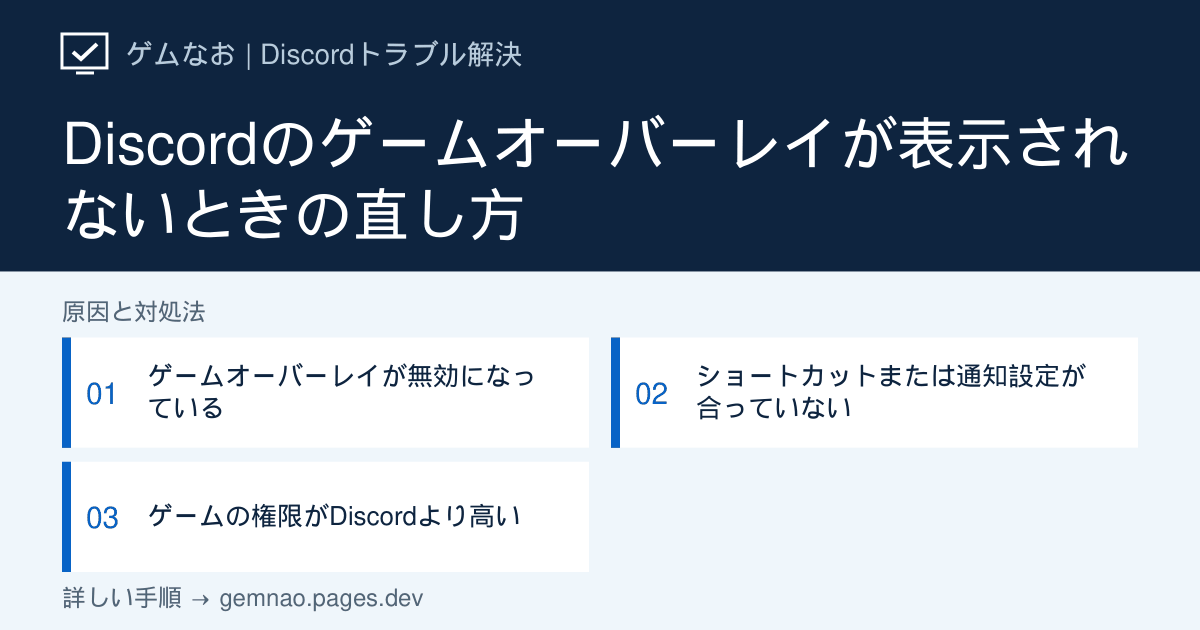
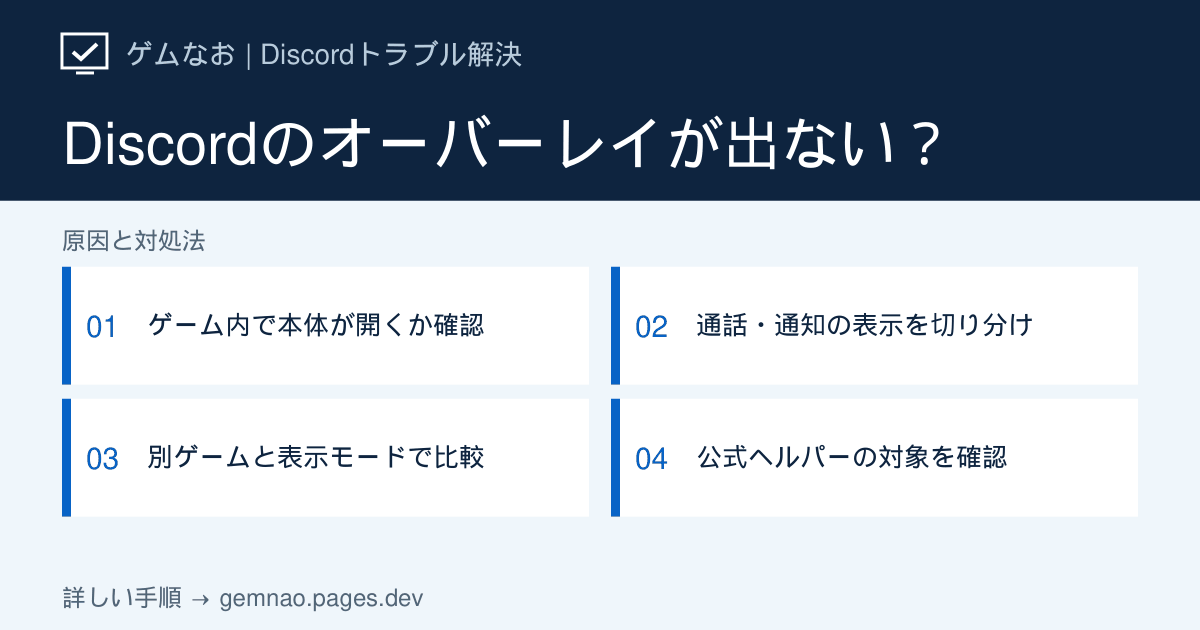
Improve Discord overlay troubleshooting with symptom-based checks

diff --git a/lib/discord-p0-articles.ts b/lib/discord-p0-articles.ts
@@ -644,79 +644,104 @@ export const discordP0Articles: DiscordArticle[] = [
   {
     slug: 'overlay-not-showing',
     category: 'game',
-    title: 'Discordのゲームオーバーレイが表示されないときの直し方',
+    title: 'Discordのオーバーレイが表示されない｜本体・通話・通知別の直し方',
     shortTitle: 'ゲームオーバーレイが表示されない',
-    seoTitle: 'Discordのオーバーレイが表示されないときの対処法【PC】',
+    seoTitle: 'Discordのオーバーレイが表示されない原因と対処法【PC】',
     metaDescription:
-      'Discordのゲームオーバーレイが表示されない、ショートカットが効かない場合のWindows向け対処法。機能の有効化、キー割り当て、システムヘルパーを確認します。',
+      'Discordのオーバーレイが出ない原因を、本体が開かない・通話参加者だけ見えない・通知だけ出ない場合で切り分け。ゲーム内でのキー操作、表示モードの比較、システムヘルパーが必要な条件を具体的に解説します。',
     symptom:
-      'ゲーム中にDiscordのオーバーレイが表示されない、通知やボイス参加者が出ない、オーバーレイのショートカットが反応しない場合の手順です。',
-    target: 'Windows版 Discordデスクトップアプリのゲームオーバーレイ',
+      'ゲーム中にショートカットを押してもDiscordが重ねて表示されない、通話参加者のアイコンが消える、メッセージ通知だけ出ない場合の確認手順です。',
+    target: 'Windows版Discordデスクトップアプリのゲームオーバーレイ',
     conclusion:
-      'まずDiscordのゲームオーバーレイを有効にし、表示用キー割り当てを確認します。管理者権限のゲーム中だけ効かない場合は、Discord内にシステムヘルパーの案内があるか確認してください。',
+      'まずゲームを起動した状態で、設定画面に表示されているオーバーレイのキーを押します。本体が開かないなら有効化・キー割り当て・ゲームの表示モード、本体は開くなら通話ウィンドウやメッセージの表示設定を確認します。特定のゲームだけで起きる場合は、別ゲームとの比較で確認範囲を絞ります。',
     quickFixes: [
-      'ユーザー設定の「ゲームオーバーレイ」で機能を有効にする',
-      'オーバーレイの表示・非表示ショートカットを確認する',
-      '権限の高いゲームならDiscordシステムヘルパーの案内を確認する',
+      'Discord左下の歯車→「ゲームオーバーレイ」で有効化と表示用キーを確認する',
+      'ゲームを手前に表示してキーを押し、本体が開くか・通話や通知だけ欠けるかを分ける',
+      '一度に変える設定は1つ。同じゲーム・同じ場面で、変更前後の表示を比べる',
+    ],
+    diagnosisTitle: '何が表示されない？ 本体・通話・通知の判定表',
+    diagnosisIntro:
+      'オーバーレイはゲーム画面に重ねるDiscordの操作画面です。「本体が開くか」「通話参加者が見えるか」「受信したメッセージが出るか」を別々に確認すると、不要な再インストールを避けられます。',
+    showStatusCheck: false,
+    diagnosis: [
+      { symptom: 'キーを押しても本体が開かない', check: '機能がオンか、実際に設定されたキーか、ゲームを手前にして押したかを確認', causeIndex: 1 },
+      { symptom: '本体は開くが、通話参加者のアイコンが見えない', check: '通話への参加、ボイスウィンドウの表示、ユーザーの表示条件を確認', causeIndex: 2 },
+      { symptom: '本体・通話は見えるが、メッセージだけ出ない', check: 'メッセージ表示、対象のミュート、配信モードを確認。テスト用DMで比較', causeIndex: 3 },
+      { symptom: '別のゲームでは出るが、このゲームだけ出ない', check: '同じキーのまま、ウィンドウ／ボーダーレス表示へ変えて比較', causeIndex: 4 },
+      { symptom: '管理者権限で動くゲーム中だけキーが効かない', check: 'Discord設定内にシステムヘルパーの案内があるか確認', causeIndex: 5 },
+      { symptom: '表示を有効にするとゲームが重い・落ちる', check: 'オーバーレイを無効にして同じ場面で再確認。改善するなら無効で利用', causeIndex: 4 },
     ],
     causes: [
       {
-        title: 'ゲームオーバーレイが無効になっている',
-        description:
-          'Discord公式の案内に沿って、Windows版のオーバーレイ機能を有効にします。',
+        title: '本体が開かない：有効化とゲーム内でのキー操作を確認する',
+        description: '最初の成功条件は、ゲーム画面の上にDiscordの操作画面が開くことです。メッセージが届くのを待つ必要はありません。',
         actions: [
-          'Discord左下の歯車からユーザー設定を開く',
-          '「ゲームオーバーレイ」を開く',
-          'オーバーレイを有効にするトグルをオンにする',
-          'ゲームへ戻り、表示されるか確認する',
+          'Windows版Discordを開き、左下のユーザー名付近にある歯車→「ゲームオーバーレイ」（Overlay）を開く',
+          'オーバーレイを有効にするスイッチをオンにし、表示・非表示に使うキー割り当てを控える。ネット上の初期キーではなく、自分の設定を使う',
+          'ゲームを起動し、メニューなど安全に止まれる画面でゲームを手前に表示する。控えたキーを押し、Discordの操作画面が開くか確認する',
+          '開かない場合はゲーム操作と重ならない組み合わせに変更し、同じ場面でもう一度試す。開けば元の割り当てを見直し、開かなければSTEP 4の表示モード比較へ進む',
         ],
-        note: '公式ではゲームオーバーレイはWindowsのみ対応で、macOSとLinuxでは動作しません。',
+        note: '公式の対応OSはWindowsです。Mac・Linuxやブラウザ版Discordで、このWindows向け手順を繰り返しても解決しません。設定名はアプリの表示言語・バージョンで異なることがあります。',
       },
       {
-        title: 'ショートカットまたは通知設定が合っていない',
-        description:
-          'オーバーレイが有効でも、表示用キーや表示する内容の設定で見えない場合があります。',
+        title: '通話参加者だけ見えない：表示条件とボイスウィンドウを確認する',
+        description: '本体が開くなら、起動の問題と切り離して確認できます。無言の時に消える場合は、発話中だけ表示する設定も確認します。',
         actions: [
-          'ゲームオーバーレイ設定で表示・非表示のキー割り当てを確認する',
-          'ゲーム内操作と重複しないキーへ変更する',
-          'メッセージを表示したい場合はメッセージ設定を有効にする',
-          'サーバーやDMがミュートされていないか確認する',
+          'Discordで通話またはボイスチャンネルに参加し、通常のDiscord画面で参加者が見えることを確認する',
+          'ユーザー設定→「ゲームオーバーレイ」のボイス表示設定を開き、ユーザーの表示条件を比較用に「常に表示」（Always）にする。プレビューで見え方を確認する',
+          'ゲームへ戻ってオーバーレイを開き、ボイスウィンドウの表示をピンのアイコンで切り替える。公式案内では色の付いたアイコンが表示状態の目印',
+          '操作画面を閉じてゲームに戻り、無言の時と誰かが話した時の両方で確認する。常に見えるようになれば、必要に応じて「話している時のみ」に戻す',
         ],
       },
       {
-        title: 'ゲームの権限がDiscordより高い',
-        description:
-          'ゲーム中だけキー割り当てが効かない場合は、公式のシステムヘルパー対象かを確認します。',
+        title: '通知だけ出ない：受信とゲーム内表示を分けて確認する',
+        description: 'メッセージ自体が届いているかを先に確かめます。Windows右下の通知とゲーム上のメッセージ表示は、別の確認対象です。',
         actions: [
-          'ゲームを閉じた状態でオーバーレイのキー割り当てが反応するか確認する',
-          'Discordのゲームオーバーレイ設定にシステムヘルパーの案内があるか確認する',
-          '案内がある場合だけ、公式プロンプトからインストールする',
-          'Discordとゲームを再起動して確認する',
+          'ユーザー設定→「ゲームオーバーレイ」で「メッセージ」（Messages）の表示を有効にする。ゲーム内のオーバーレイでも通知ウィンドウが非表示になっていないか確認する',
+          'テストに使うDM・グループ・サーバーのミュート状態を確認する。比較する相手だけミュートを解除し、他の通知設定まで一括で変えない',
+          'ユーザー設定→「配信モード」を確認する。配信中は個人情報が映るおそれがあるため、配信を止めた状態で一時的にオフにして比べる',
+          'ゲームを手前にして知人に短いテスト用DMを送ってもらう。ゲーム内に出たかを確認し、その後Discordの会話欄で受信できたか確認する',
+          '会話には届くのにゲーム内だけ出ないなら表示設定の確認を続ける。会話にも見当たらない、またはWindows通知だけ出ないなら、関連記事「通知が来ない」のDM・通知別手順へ進む',
         ],
+        note: '公式は、対象のミュートや配信モードが有効だとメッセージが表示されないと案内しています。本体が開いている場合、通知が出ないだけでオーバーレイ全体の故障とは判断できません。',
+      },
+      {
+        title: '特定ゲームだけ出ない：表示モードと別ゲームで比較する',
+        description: 'ゲーム側の条件を1つずつ変えます。「別ゲームでは成功」「ボーダーレスでは成功」という結果が、次に調べる範囲を決める手掛かりになります。',
+        actions: [
+          '現在の表示モードを控え、ゲームの設定→画面・映像などの項目から「ウィンドウ」または「ボーダーレスウィンドウ」に変更して適用する。項目の場所や名称はゲームにより異なる',
+          '同じメニュー画面で同じキーを押す。表示された場合は、そのモードを使い続けるか、元のモードに戻すと再発するかを確認する',
+          '改善しない場合は作業を保存してゲームとDiscordを終了し、Discordを開き直してからゲームを起動する。タスクバー右下のDiscordアイコンから終了すると、ウィンドウを閉じただけの状態を避けられる',
+          '手元に別のゲームがあれば、キー割り当てを変えずに本体が開くか比較する。1本だけ失敗ならゲーム名・表示モードを記録し、管理者権限で起動している場合はSTEP 5へ進む',
+          '有効化すると重くなる・落ちる場合は、オーバーレイを無効にして同じ場面で再確認する。無効時だけ安定するなら無効のまま利用し、再発条件をサポートへ伝える',
+        ],
+        note: '別ゲームで表示できても、原因や対応可否の断定はできません。ゲームの保護機能・セキュリティ機能を解除して無理に表示させる手順は行わず、確認結果を問い合わせに使います。',
+      },
+      {
+        title: '権限の高いゲームでキーが効かない：公式ヘルパーの案内を確認する',
+        description: 'Discord公式は、管理者権限などで動くゲーム内でキー割り当てが機能しない場合に、システムヘルパーを案内しています。すべての表示不良に必要な機能ではありません。',
+        actions: [
+          '問題のゲームを「管理者として実行」しているか確認する。別の通常起動のゲームでは同じキーが使えるかも記録する',
+          'Discordのユーザー設定→「ゲームオーバーレイ」または「キー割り当て」などにシステムヘルパーの案内があるか確認する',
+          '案内が表示されている場合は、Discordアプリ内の公式プロンプトに従って導入する。案内がない場合は外部サイトでインストーラーを探さず、ここまでの比較結果を残す',
+          '導入後はゲームとDiscordを起動し直し、同じゲーム・同じ表示モード・同じキーで本体が開くか確認する。改善しなければ関連記事「システムヘルパー」とサポート案内を確認する',
+        ],
+        note: 'システムヘルパーは一部のWindowsデスクトップ利用者に提供される実験的な機能です。項目がないことだけでDiscordの異常とは判断しません。',
       },
     ],
     ifNotFixed:
-      '特定のゲームだけで表示されないか確認してください。また、オーバーレイを有効にするとラグやクラッシュが起きるゲームでは、Discord公式もそのゲームでの無効化を推奨しています。ゲーム名、表示されない機能、試したキー割り当てを添えてサポートへ連絡してください。',
+      '問い合わせには「ゲーム名／Windows・Discordのバージョン／本体・通話・通知のどれが出ないか／設定したキー／表示モード／別ゲームの結果／管理者起動の有無」をまとめます。記入例：本体は開く、通話は見える、DMは受信するがゲーム内通知なし。比較結果の例であり、特定ゲームでの実測結果ではありません。画面を添える場合はDM本文・ユーザー名を隠してください。',
     faqs: [
-      {
-        question: 'DiscordオーバーレイはMacやLinuxで使えますか？',
-        answer:
-          'Discord公式ではゲームオーバーレイはWindows OSのみ対応で、macOSとLinuxでは動作しないと案内されています。',
-      },
-      {
-        question: 'オーバーレイを有効にするとゲームが重くなります',
-        answer:
-          'Discord公式は、オーバーレイ有効時にラグやクラッシュが起きる場合、そのゲームでは無効にすることを推奨しています。',
-      },
-      {
-        question: '通知だけ表示されません',
-        answer:
-          'ゲームオーバーレイのメッセージ設定に加え、対象サーバー・DMのミュート状態と配信モードの設定を確認してください。',
-      },
+      { question: 'オーバーレイの初期キーを押しても反応しないのはなぜ？', answer: 'キー割り当てが変更されていたり、ゲーム操作と重複していたりする可能性があります。Discordの設定に現在表示されている組み合わせを確認し、ゲームを起動して手前に表示した状態で押してください。' },
+      { question: '話していない時だけ参加者が消えるのは故障ですか？', answer: '発話中のみ表示する設定の可能性があります。ボイス表示を「常に表示」に変え、無言の時にも参加者が残るか確認してください。' },
+      { question: 'Macやブラウザ版で同じ設定が見つかりません', answer: 'この記事はWindows版デスクトップアプリ向けです。公式のゲームオーバーレイはMac・Linuxでは動作しません。通話を続けながら通常のDiscord画面を切り替えて利用してください。' },
+      { question: 'オーバーレイが出ないならDiscordを再インストールすべき？', answer: '先に本体と通知のどちらが出ないか、別ゲームでも同じかを確認します。通知だけの問題や特定ゲームの表示条件なら、再インストールをしても原因となる設定が変わらない場合があります。' },
     ],
     sources: [overlayGuide, systemHelperGuide],
-    related: ['system-helper', 'screen-share-not-working', 'not-opening'],
-    checkedAt: '2026-09-17',
+    related: ['notifications-not-working', 'system-helper', 'slow-performance'],
+    ogTitle: 'Discordのオーバーレイが出ない？',
+    ogSteps: ['ゲーム内で本体が開くか確認', '通話・通知の表示を切り分け', '別ゲームと表示モードで比較', '公式ヘルパーの対象を確認'],
+    checkedAt: '2026-09-28',
     status: 'verified',
   },
   {

diff --git a/lib/og-image-manifest.ts b/lib/og-image-manifest.ts
@@ -23,7 +23,7 @@ export const ogImageManifest: Record<string, string> = {
   "/discord/no-route": "7419f17d",
   "/discord/not-opening": "6ef5ed70",
   "/discord/notifications-not-working": "4ab41adc",
-  "/discord/overlay-not-showing": "7aff7383",
+  "/discord/overlay-not-showing": "912a94f2",
   "/discord/phone-verification-error": "7266d12e",
   "/discord/screen-share-black-screen": "27a28c0d",
   "/discord/screen-share-not-working": "950ea3dc",
